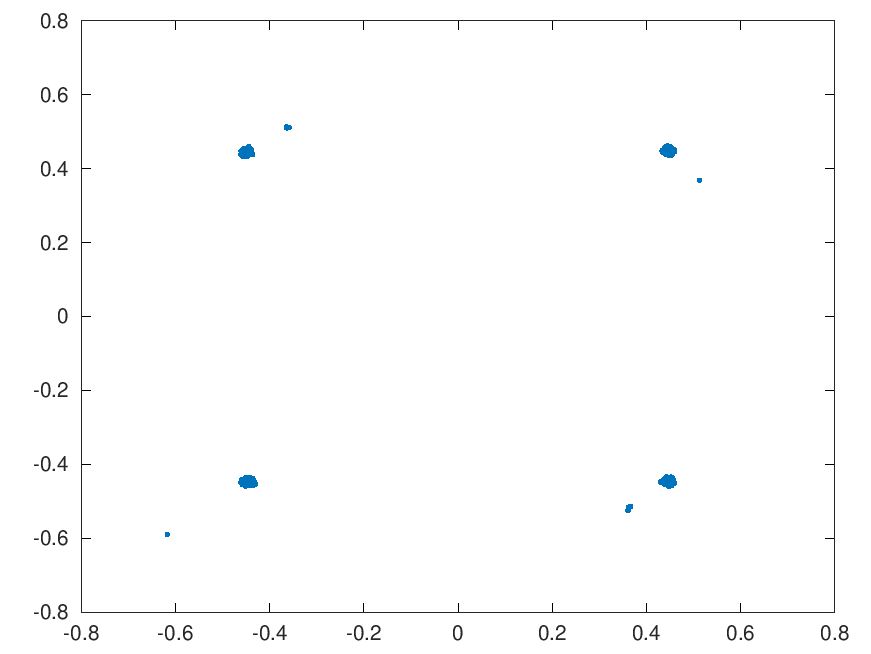
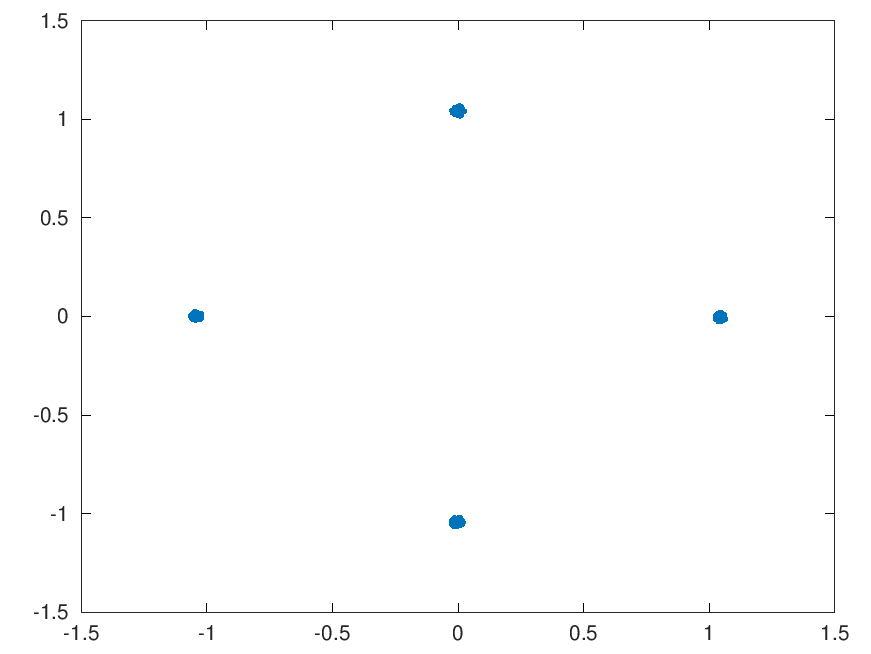
Adjust RRC gain

diff --git a/qpsk.c b/qpsk.c
@@ -315,7 +315,7 @@ int main(int argc, char** argv) {
      */
     create_control_loop((TAU / 200.0f), -1.6f, 1.6f);
 
-    //set_costas_enable(false);
+    set_costas_enable(false);
 
     /*
      * Create an RRC filter using the
@@ -330,11 +330,11 @@ int main(int argc, char** argv) {
     fout = fopen(TX_FILENAME, "wb");
 
     fbb_tx_phase = cmplx(0.0f);
-    //fbb_tx_rect = cmplx(TAU * CENTER / FS);
-    //fbb_offset_freq = CENTER;
+    fbb_tx_rect = cmplx(TAU * CENTER / FS);
+    fbb_offset_freq = CENTER;
 
-    fbb_tx_rect = cmplx(TAU * (CENTER + 5.0) / FS);
-    fbb_offset_freq = (CENTER + 5.0);
+    //fbb_tx_rect = cmplx(TAU * (CENTER + 5.0) / FS);
+    //fbb_offset_freq = (CENTER + 5.0);
 
     for (int k = 0; k < 100; k++) {
         // 256 QPSK

diff --git a/rrc_fir.h b/rrc_fir.h
@@ -17,7 +17,7 @@ extern "C" {
 #define TAU           (2.0 * M_PI)
 
 #define NTAPS         127	// lower bauds need more taps, 127 for 300 baud is good
-#define GAIN          1.5
+#define GAIN          1.7
 
 void rrc_fir(complex float [], complex float [], int);
 void rrc_make(float, float, float);

diff --git a/qpsk.h b/qpsk.h
@@ -17,7 +17,6 @@ extern "C"
 #define RS              2400.0
 #define CENTER          1500.0
 
-#define TS              (1.0 / RS)
 #define CYCLES          (int) (FS / RS)
 
 #define FRAME_SIZE      512
